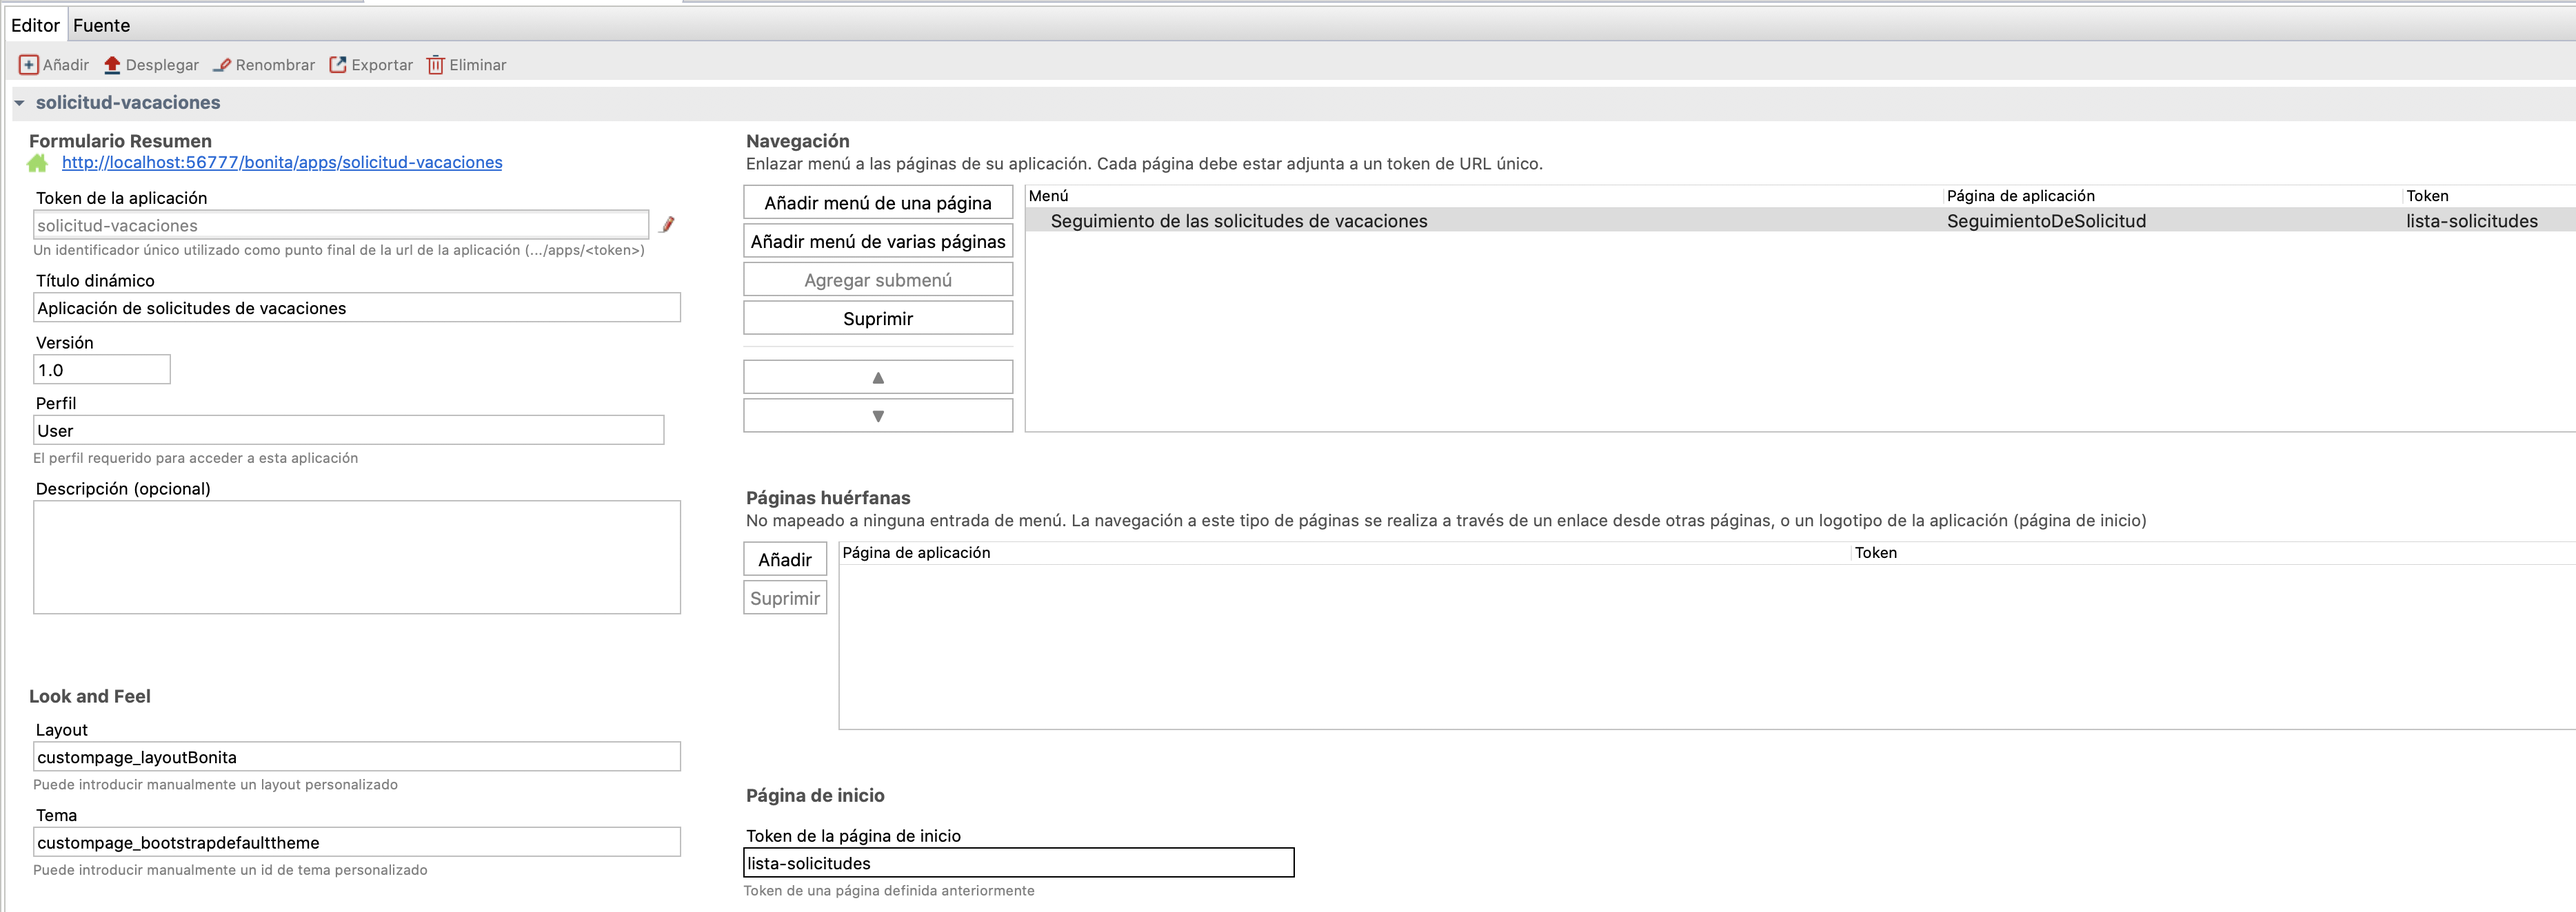
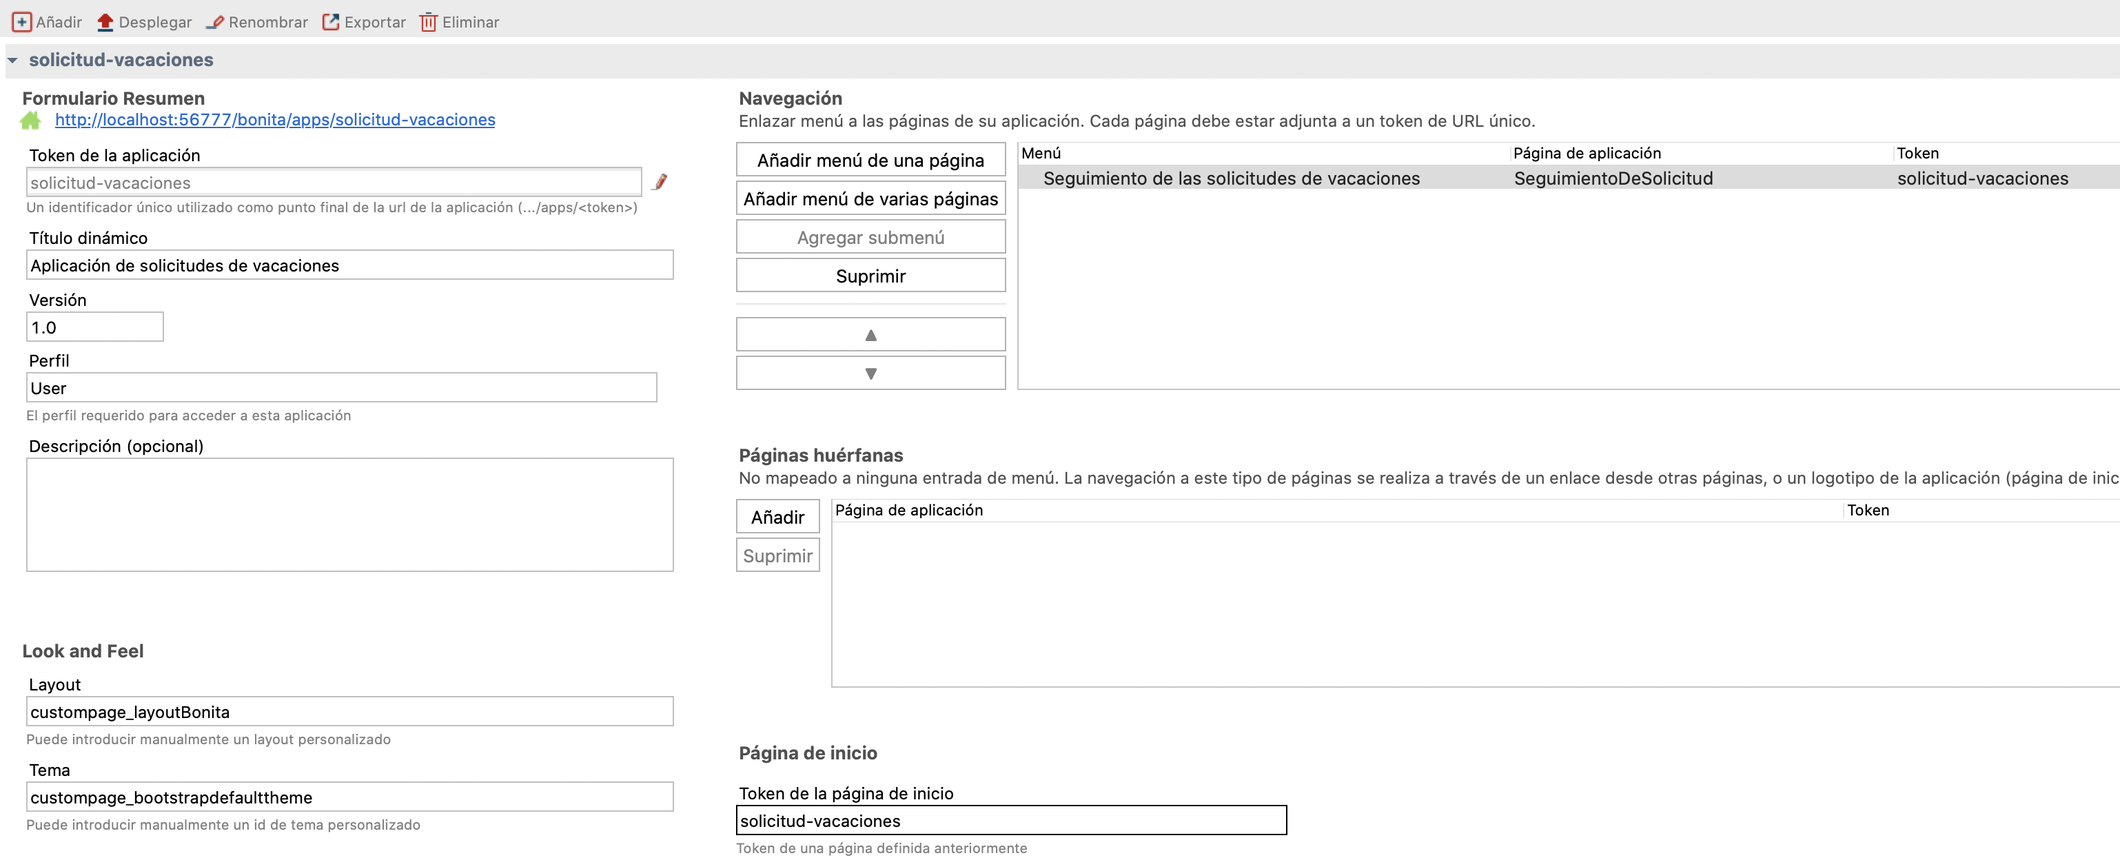
Fix(bonita-camp): fix french and spanish exercises - fix 02-data-contract.md and 06-applications.md in FR and image - fix 06-applications.md in ES and image

diff --git a/docs/es/06-applications.md b/docs/es/06-applications.md
@@ -67,10 +67,14 @@ Acceda a la aplicación recién creada utilizando la URL única generada.
 
     ![contenedor multiple](images/ex06/ex6_13.png)
 
-1. Borrar el sub-titulo *SolicitudVacaciones* del contenedor y las etiquetas inutiles:
-    - Selecciona el widget **Table**
-    - En el panel de configuración de la derecha, en el campo **Cabeceras**, borra *Solicitante Id, *
-    - Reemplaza *Fecha Inicio* con *Fecha de inicio*, *Numero Dias* con *Número de días* y *EstaAprobado* con *Estado*
+1. Sustituir el subtítulo *SolicitudVacaciones* del contenedor y las etiquetas : 
+   - Nómbralo *Seguimientio de solicitudes*
+   - Selecciona la opción **Nivel 4** para el parámetro **Nivel del título**.
+   - Selecciona la opción **centro** para el parámetro **alineación**. 
+   - Selecciona el widget Tabla
+   - En el panel de la derecha, en el campo **Cabeceras**, borra *Solicitante Id*.
+   - Sustituye *Fecha Inicio* por *Fecha de inicio*, *Número Dias* por *Número de días* y *EstaAprobado* por *Estado*.
+    
 1. Declara una nueva expresión de JavaScript para formatear la lista:
     - Haz clic en **Crear una nueva variable**
     - Nombra el *agregarEtiquetaEstadoSolicitud*
@@ -98,44 +102,22 @@ Acceda a la aplicación recién creada utilizando la URL única generada.
     - En el mismo campo, cambia *estaAprobado* por *estaAprobadoEtiqueta*
     - Borra el widget Input *SolicitanteId* en el contenedor de detalles porque esta información no es útil.
 
-1. Agrega 4 widgets al contenedor:
-    - Un widget **Input** con las siguientes opciones:
+1. Selecciona el widget *Fecha Inicio* y cambia las siguientes propiedades:
    
-     Propiedad | Valpr
-     --------- | ------
-     Ancho     | *3*
-     Sólo lectura | **Sí**
-     Etiqueta | *Num*
-     Valor | `$index + 1`
+      Propiedad | Valor
+      --------- | ------
+      Etiqueta | Fecha de inicio
+      Formato técnico de la fecha | dd/MM/yyyy
+      Placeholder | dd/mm/aaaa
+      Mostrar el botón de hoy | no
+      
+1. Selecciona el widget *Número de días* y cambia las siguientes propiedades :
 
-   - Un widget **Date picker** con las siguientes opciones:
-   
-     Propiedad | Valor
-     --------- | ------
-     Ancho | *3*
-     Sólo lectura | **Sí**
-     Etiqueta | *Fecha de inicio*
-     Valor | `$item.fechaInicio`
-     Formato de fecha técnica | *dd/MM/yyyy*
-     Mostrar botón Hoy | **No**
-
-   - Un widget **Input** con las siguientes opciones:
-   
-     Propiedad | Valor
-     --------- | ------
-     Ancho | *3*
-     Sólo lectura | **Sí**
-     Etiqueta | *Numero de días*
-     Valor | `$item.numeroDias`
-
-   - Un widget **Input** con las siguientes opciones:
-   
-     Propiedad | Valor
-     --------- | ------
-     Ancho | *3*
-     Sólo lectura | **Sí**
-     Etiqueta | *Estado*
-     Valor | `$item.estaAprobadoEtiqueta`
+      Propiedad | Valor
+      --------- | ------
+      Etiqueta | Número de días
+      Placeholder | Número de días de vacaciones
+      Valor mínimo | 1
 
    - Guarda la página
    - La página debería verse así:
@@ -179,8 +161,8 @@ Acceda a la aplicación recién creada utilizando la URL única generada.
         Propiedad | Valor
         --------- | ------
         Ancho | *6*
-         Etiqueta | *Fecha de inicio*
-         Valor | `nuevaSolicitudVacaciones.solicitudInput.fechaInicio`
+        Etiqueta | *Fecha de inicio*
+        Valor | `nuevaSolicitudVacaciones.solicitudInput.fechaInicio`
        
     - Un widget **Input** con las siguientes opciones:
    
@@ -189,6 +171,8 @@ Acceda a la aplicación recién creada utilizando la URL única generada.
         Ancho | *6*
         Etiqueta | *Número de días*
         Valor | `nuevaSolicitudVacaciones.solicitudInput.numeroDias`
+        Tipo : *number*
+        Valor minimo : *1*
         
 1. Agrega un botón para enviar el formulario:
     - Arrastra el widget **Botón** desde la paleta y colócalo en el contenedor del formulario debajo de los dos widgets
@@ -221,14 +205,14 @@ Acceda a la aplicación recién creada utilizando la URL única generada.
     - En el menú de navegación, haz clic en **Añadir menú de una página** (A)
     - Ingresa *Seguimiento de las solicitudes de vacaciones* en el campo **Menú**
     - Selecciona la página *custompage_SeguimientoDeSolicitud* en el campo **Página de aplicación** (B)
-    - Ingresa *lista-solicitudes* en el campo **Token** (C).
+    - Ingresa *solicitud-vacaciones* en el campo **Token** (C).
     
       ![creación de una aplicación](images/ex06/ex6_07.png) 
     
 1. Define la página *Aplicación de solicitudes de vacaciones* como página de inicio de la aplicación: 
-    - Selecciona el token *lista-solicitudes* en el menú **Página de inicio**
+    - Selecciona el token *solicitud-vacaciones* en el menú **Página de inicio**
     - Haz clic en el enlace para probar la aplicación (A)
-    - Una ventana se abre para confirmar el despliegue. Haz clic en el botón **Desplegar**
+    - Una ventana se abre para confirmar el despliegue. Haz clic en el botón **Desplegar**
   
    
    

diff --git a/docs/fr/02-data-contract.md b/docs/fr/02-data-contract.md
@@ -121,21 +121,11 @@ Ajouter un contrat sur l'étape *Valider demande* en utilisant l'assistant avec 
    - Sélectionner le pool du processus et naviguer dans l'onglet **Données / Variables du pool**
    - Sélectionner la variable *demande*
    - Cliquer sur **Modifier...**
-   - Cliquer sur l'icône **crayon** associé au champ **Valeur par défaut** pour ouvrir l'éditeur d'expression
-   - Entrer le code suivant (ou simplement appliquer les modifications) :
+   - Cliquer sur l'icône **crayon** associé au champ **Valeur par défaut** pour ouvrir l'éditeur d'expression. Le script a déjà été initialisé.
+   - Dans le menu de gauche, sélectionnez **Modèles de code/Utilisateurs Bonita** (A) et faites glisser le modèle *processInitiatorUser* avant la dernière ligne commençant par `return
+     Le script permettant de récupérer l'instance du processus et l'initiateur est créé automatiquement.
+   - Saisissez `demandeCongesVar.idDemandeur = processInitiator.id` pour récupérer l'id de l'initiateur de l'instance dans l'attribut *idDemandeur* (B).
    
-   ```groovy
-   def demandeCongesVar = new com.company.model.DemandeConges()
-   demandeCongesVar.dateDebut = demandeInput?.dateDebut
-   demandeCongesVar.nombreJours = demandeInput?.nombreJours
-
-   // Récupérer l'instance de processus en cours
-   def processInstance = apiAccessor.processAPI.getProcessInstance(processInstanceId)
-   // Ajouter l'identifiant du demandeur à la nouvelle demande
-   demandeCongesVar.idDemandeur = processInstance.startedBy
-
-   return demandeCongesVar
-   ```
    ![editeur expression script](images/ex02/ex2_12.png)
    
    - Le script va initialiser la variable métier en utilisant les données du contrat et l'identifiant de l'auteur de la demande

diff --git a/docs/fr/06-applications.md b/docs/fr/06-applications.md
@@ -209,7 +209,7 @@ Nous allons maintenant déployer l'application dans le portail depuis le Studio.
    ![page de configuration](images/ex06/ex6_17.png)
    
 1. Déployer l'application dans le portail
-   - Cliquer sur le lien *http://localhost:8080/bonita/apps/demande-conges* pour accéder à l'application. (A)
+   - Cliquer sur le lien *http://localhost:8080/bonita/apps/demand`e-conges* pour accéder à l'application. (A)
    - Une fenêtre de déploiement s'ouvre. Cliquer sur *Déployer* (B) 
    
    ![Déployer l'application](images/ex06/ex6_09.png)
